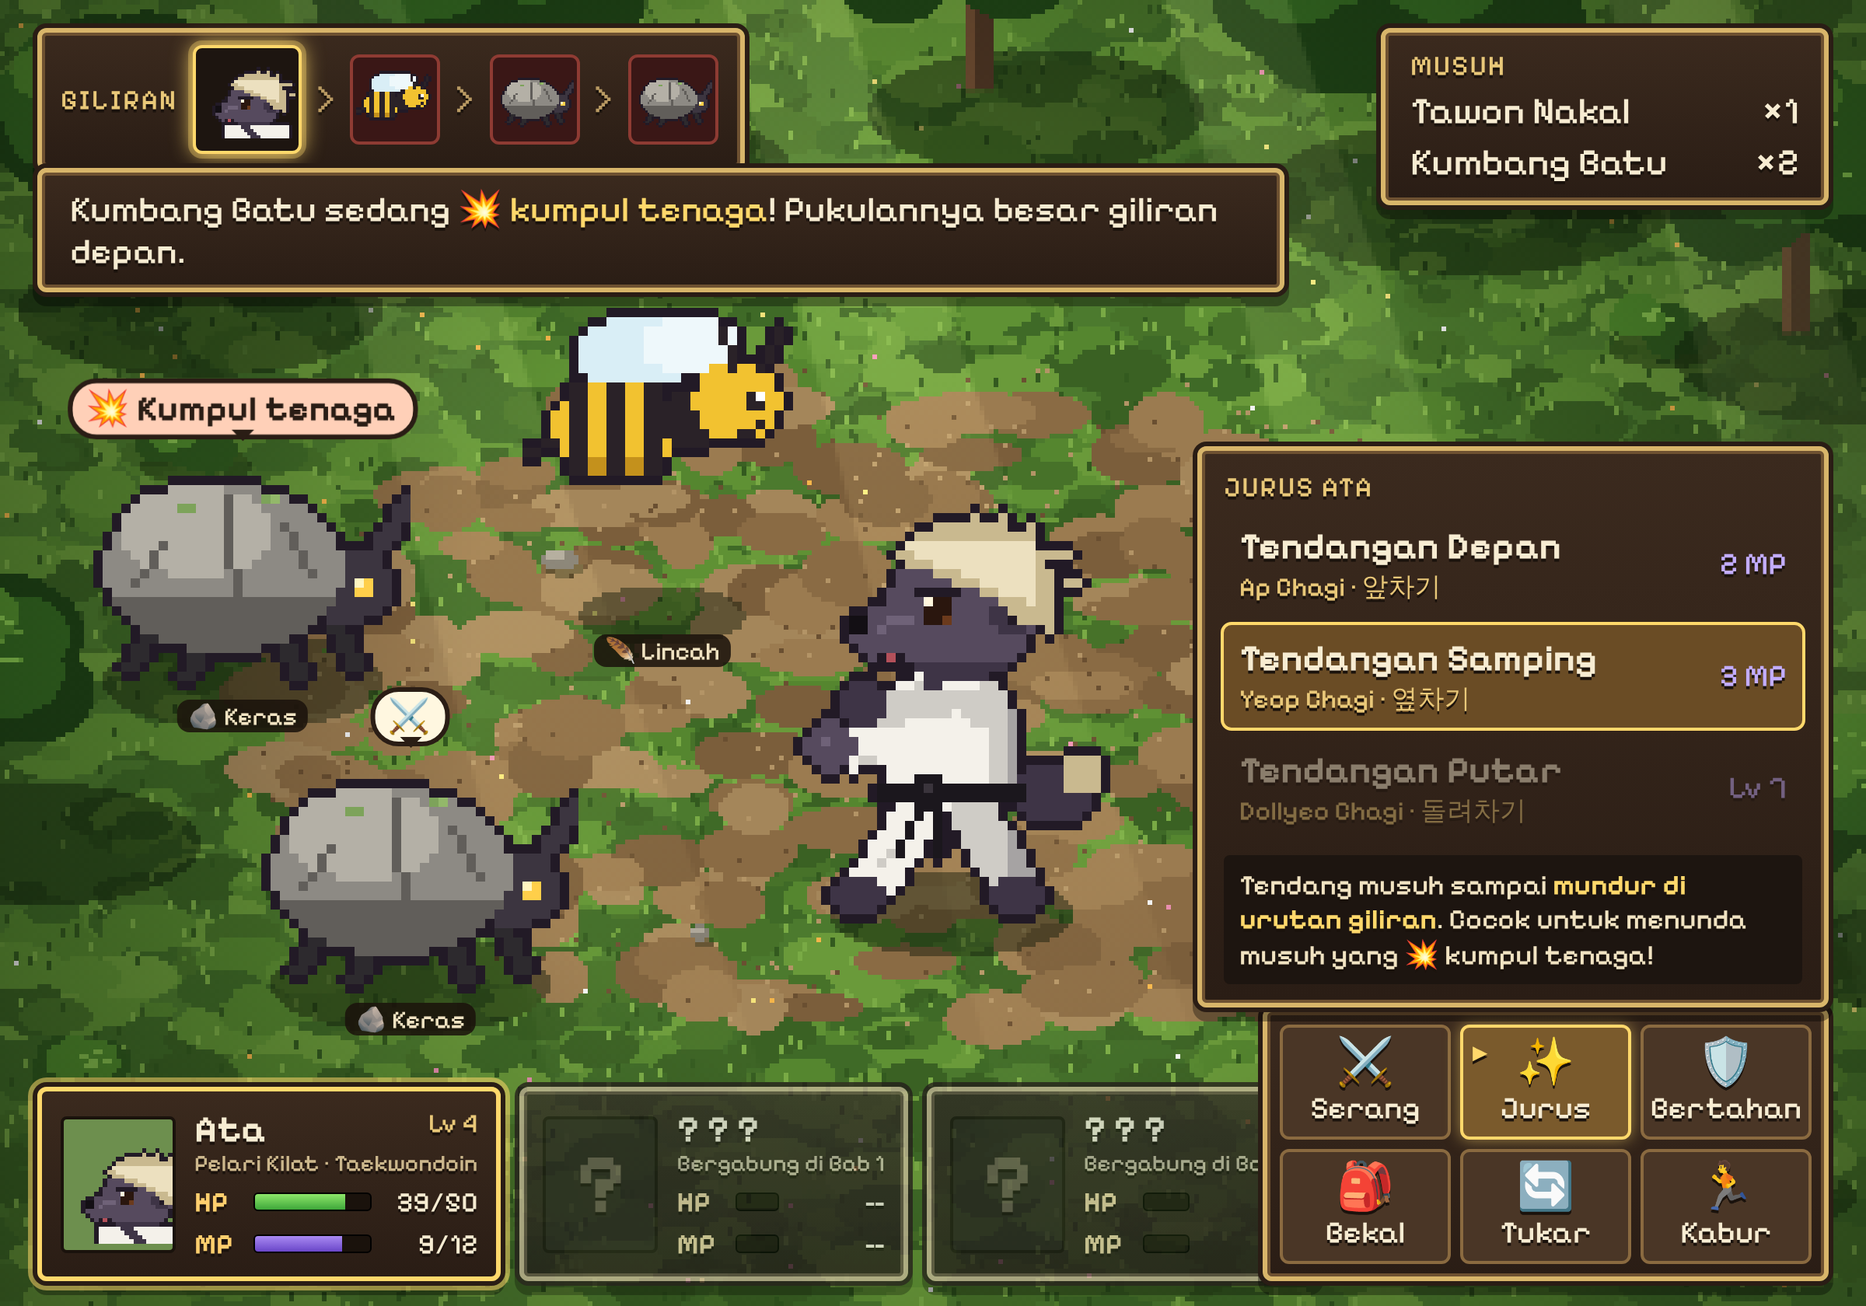
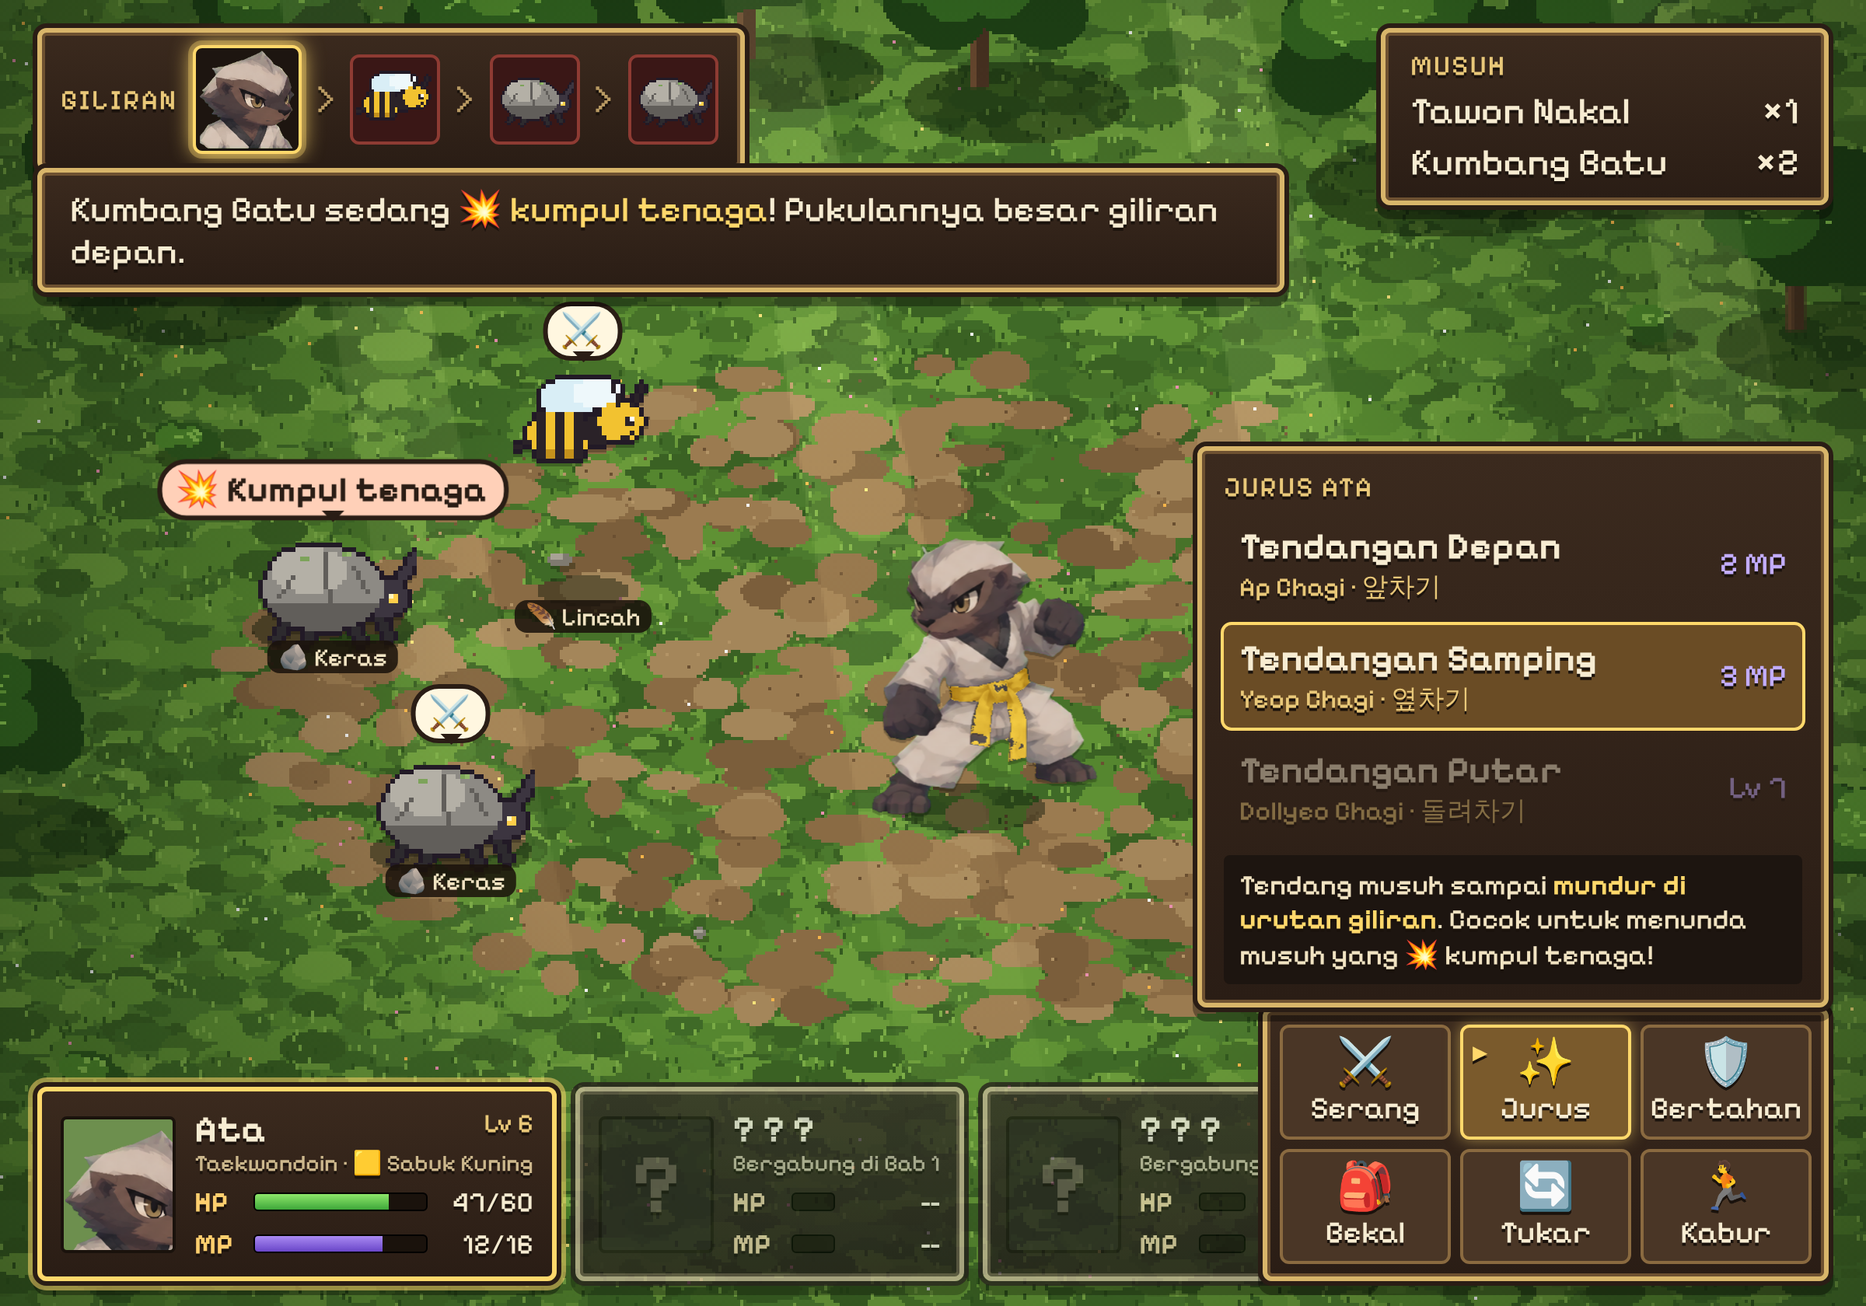
Mockup v2: sprite Ata dari pengguna, naik sabuk, kamera lebih jauh
Claude-Session: https://claude.ai/code/session_012A5oLvFsQThBvFkQXBRdxZ

diff --git a/pohon-madu/mockup/index.html b/pohon-madu/mockup/index.html
@@ -82,6 +82,16 @@
           display: grid; place-items: center; font-size: 52px; font-weight: 700; color: #4a2a0c; text-shadow: none; box-shadow: 0 0 20px #ffcf6e; }
   #btnTim { right: 24px; top: 96px; padding: 8px 14px; font-size: 22px; }
   #label { position: fixed; left: 8px; bottom: 6px; color: #fff8; font: 13px monospace; }
+  .spr { position: absolute; image-rendering: auto; filter: drop-shadow(0 2px 0 rgba(0,0,0,.25)); }
+  .spr.px { image-rendering: pixelated; }
+  .spr.flip { transform: scaleX(-1); }
+  #sabuk { left: 50%; top: 50%; transform: translate(-50%,-50%); padding: 20px 26px; text-align: center; }
+  #sabuk h2 { margin: 0 0 6px; font-size: 34px; color: #ffd86b; }
+  #sabuk .row { display: flex; gap: 14px; align-items: flex-end; }
+  #sabuk .it { width: 150px; }
+  #sabuk .it img { height: 210px; }
+  #sabuk .it b { display: block; font-size: 24px; } #sabuk .it span { font-size: 18px; color: #cdb88d; }
+  #sabuk p { font-size: 20px; color: #f1e3c2; margin: 14px 0 0; }
 </style>
 </head>
 <body>
@@ -90,31 +100,55 @@
 <script src="sprites.js"></script>
 <script src="scene.js"></script>
 <script>
-const SC = 3, stage = document.getElementById('stage'), g = cv.getContext('2d');
+const stage = document.getElementById('stage');
 const q = new URLSearchParams(location.search).get('s') || 'pilih';
-const sp = { ata: SPR.ataStance(), kick: SPR.ataKick(), face: SPR.ataFace(), kb: SPR.kumbang(), tw: SPR.tawon() };
+const K = 1.5, SC = 1200 / (400 * K);          // latar 600×420 → 2× (lebih jauh/zoom out)
+cv.width = 400 * K; cv.height = 280 * K; SCN.size(K);
+const g = cv.getContext('2d');
+const sp = { face: SPR.ataFace(), kb: SPR.kumbang(), tw: SPR.tawon() };
 const url = (S) => S.canvas().toDataURL();
-function draw(S, x, y, flip, k = 2) {
-  const c = S.canvas(); g.imageSmoothingEnabled = false;
-  if (flip) { g.save(); g.translate(x + c.width * k, y); g.scale(-1, 1); g.drawImage(c, 0, 0, c.width * k, c.height * k); g.restore(); }
-  else g.drawImage(c, x, y, c.width * k, c.height * k);
-}
-function ui(html, cls, style) { const d = document.createElement('div'); d.className = 'ui ' + (cls || ''); d.innerHTML = html; if (style) Object.assign(d.style, style); stage.appendChild(d); return d; }
-const at = (x, y) => ({ left: x * SC + 'px', top: y * SC + 'px' });
 
-function fit() {
-  const s = Math.min(innerWidth / 1200, innerHeight / 840);
-  stage.style.transform = `scale(${s}) translate(-50%, -50%)`;
+// ---- sabuk: warna diganti saat runtime (piksel gelap netral di area sabuk) ----
+const BELT = {
+  putih: ['#9f9a90', '#f3efe6'], kuning: ['#a47410', '#ffd84a'], hijau: ['#2c6a22', '#79c95a'],
+  biru: ['#1d3f8a', '#5f95ec'], merah: ['#7a1414', '#e24a3e'], hitam: null,
+};
+const BELT_AREA = {   // kotak area sabuk per pose (koordinat gambar)
+  siaga: [[66, 138, 160, 248]], tendang: [[97, 122, 174, 166], [100, 160, 130, 212]],
+  kanan: [[57, 165, 178, 236]], depan: [[55, 165, 152, 258]],
+};
+const IMG = {};
+function load(n) { return new Promise(r => { const i = new Image(); i.onload = () => { IMG[n] = i; r(); }; i.src = '../img/ata/' + n + '.png'; }); }
+function hex(h) { return [1, 3, 5].map(i => parseInt(h.substr(i, 2), 16)); }
+function ata(pose, belt) {
+  const im = IMG[pose], c = document.createElement('canvas'); c.width = im.width; c.height = im.height;
+  const x = c.getContext('2d'); x.drawImage(im, 0, 0);
+  const ramp = BELT[belt]; if (!ramp || !BELT_AREA[pose]) return c.toDataURL();
+  const d = x.getImageData(0, 0, c.width, c.height), a = d.data, lo = hex(ramp[0]), hi = hex(ramp[1]);
+  for (const [x0, y0, x1, y1] of BELT_AREA[pose]) for (let y = y0; y < y1; y++) for (let xx = x0; xx < x1; xx++) {
+    const i = (y * c.width + xx) * 4, r = a[i], gg = a[i + 1], b = a[i + 2];
+    if (a[i + 3] < 60 || Math.max(r, gg, b) >= 92 || r - b > 5 || Math.abs(r - gg) >= 12) continue;
+    const t = Math.min(1, Math.max(0, ((r + gg + b) / 3 - 28) / 55));
+    for (let k = 0; k < 3; k++) a[i + k] = lo[k] + (hi[k] - lo[k]) * t;
+  }
+  x.putImageData(d, 0, 0); return c.toDataURL();
 }
+function img(src, x, y, h, cls) { const i = document.createElement('img'); i.src = src; i.className = 'spr ' + (cls || ''); Object.assign(i.style, { left: x + 'px', top: y + 'px', height: h + 'px' }); stage.appendChild(i); return i; }
+function shadow(x, y, rx) { PX.disc(g, x / SC, y / SC, rx / SC, rx * 0.32 / SC, 'rgba(15,25,8,.45)'); }
+function ui(html, cls, style) { const d = document.createElement('div'); d.className = 'ui ' + (cls || ''); d.innerHTML = html; if (style) Object.assign(d.style, style); stage.appendChild(d); return d; }
+const at = (x, y) => ({ left: x + 'px', top: y + 'px' });
+
+function fit() { const s = Math.min(innerWidth / 1200, innerHeight / 840); stage.style.transform = `scale(${s}) translate(-50%, -50%)`; }
 addEventListener('resize', fit); fit();
 
-function partyCards(now) {
+const BELT_NOW = 'kuning';
+function partyCards(now, mp) {
   const p = ui('', '', {}); p.id = 'party';
   p.innerHTML = `
-  <div class="box card ${now ? 'now' : ''}"><div class="por"><img src="${url(sp.face)}"></div>
-    <div style="flex:1"><div class="nm">Ata <small>Lv 4</small></div><div class="job">Pelari Kilat · Taekwondoin</div>
-    <div class="bar hp"><b>HP</b><div class="t"><i style="width:78%"></i></div><span>39/50</span></div>
-    <div class="bar mp"><b>MP</b><div class="t"><i style="width:${now === 'hit' ? 50 : 75}%"></i></div><span>${now === 'hit' ? 6 : 9}/12</span></div></div></div>
+  <div class="box card ${now ? 'now' : ''}"><div class="por"><img src="${ata('wajah')}" style="width:96px;margin-top:6px;image-rendering:auto"></div>
+    <div style="flex:1"><div class="nm">Ata <small>Lv 6</small></div><div class="job">Taekwondoin · 🟨 Sabuk Kuning</div>
+    <div class="bar hp"><b>HP</b><div class="t"><i style="width:78%"></i></div><span>47/60</span></div>
+    <div class="bar mp"><b>MP</b><div class="t"><i style="width:${mp}%"></i></div><span>${Math.round(mp * 16 / 100)}/16</span></div></div></div>
   <div class="box card lock"><div class="por">?</div><div style="flex:1"><div class="nm">? ? ?</div><div class="job">Bergabung di Bab 1</div>
     <div class="bar hp"><b>HP</b><div class="t"></div><span>--</span></div><div class="bar mp"><b>MP</b><div class="t"></div><span>--</span></div></div></div>
   <div class="box card lock"><div class="por">?</div><div style="flex:1"><div class="nm">? ? ?</div><div class="job">Bergabung di Bab 2</div>
@@ -123,29 +157,28 @@ function partyCards(now) {
 
 function battleBase(hit) {
   SCN.battle(g);
-  // musuh (kiri) — Kumbang 1 bersiap pukulan besar, Kumbang 2 menyerang, Tawon terbang
-  const tx = hit ? 92 : 112, ty = hit ? 96 : 64;
-  SCN.shadow(g, 52, 146, 30); draw(sp.kb, 16, 96);
-  SCN.shadow(g, 88, 211, 30); draw(sp.kb, 52, 161);
-  SCN.shadow(g, tx + 30, hit ? 150 : 132, 18); draw(sp.tw, tx, ty);
-  // Ata (kanan)
-  if (hit) { SCN.shadow(g, 208, 156, 26); draw(sp.kick, 148, 70); }
-  else { SCN.shadow(g, 204, 196, 26); draw(sp.ata, 170, 108); }
-  // ikon niat & tipe
-  ui('💥 Kumpul tenaga', 'intent big', at(52, 94));
-  ui('⚔', 'intent', at(88, 160));
-  if (!hit) ui('⚔', 'intent', at(tx + 30, ty - 2));
-  ui('🪨 Keras', 'tipe', at(52, 150)); ui('🪨 Keras', 'tipe', at(88, 215)); ui('🪶 Lincah', 'tipe', at(tx + 30, hit ? 152 : 136));
-  const faces = { a: url(sp.face), k: url(sp.kb), t: url(sp.tw) };
+  // musuh (kiri, skala pixel 3×)
+  const tw = hit ? [300, 334] : [330, 238];
+  shadow(214, 405, 52); img(url(sp.kb), 160, 340, 78, 'px');
+  shadow(290, 548, 52); img(url(sp.kb), 236, 483, 78, 'px');
+  shadow(tw[0] + 45, hit ? 452 : 380, 30); img(url(sp.tw), tw[0], tw[1], 72, 'px');
+  if (hit) { shadow(540, 540, 46); img(ata('tendang', BELT_NOW), 389, 352, 190, 'flip'); }
+  else { shadow(625, 520, 48); img(ata('siaga', BELT_NOW), 560, 345, 180, 'flip'); }
+  ui('💥 Kumpul tenaga', 'intent big', at(214, 334));
+  ui('⚔', 'intent', at(290, 478));
+  if (!hit) ui('⚔', 'intent', at(tw[0] + 45, tw[1] - 6));
+  ui('🪨 Keras', 'tipe', at(214, 412)); ui('🪨 Keras', 'tipe', at(290, 556)); if (!hit) ui('🪶 Lincah', 'tipe', at(tw[0] + 45, 386));
+  const faces = { a: ata('wajah'), k: url(sp.kb), t: url(sp.tw) };
   const order = hit ? [['k', 1, 'now'], ['k', 2], ['a'], ['t', 0, '', '⬇']] : [['a', 0, 'now'], ['t'], ['k', 1], ['k', 2]];
   ui('<span class="lbl">GILIRAN</span>' + order.map(([k, n, c, mv], i) =>
-    (i ? '<span class="arrow">›</span>' : '') + `<div class="face ${c || ''} ${k !== 'a' ? 'foe' : ''}"><img src="${faces[k]}">${mv ? `<span class="mv">${mv}</span>` : ''}</div>`).join(''), 'box', {}).id = 'turn';
+    (i ? '<span class="arrow">›</span>' : '') + `<div class="face ${c || ''} ${k !== 'a' ? 'foe' : ''}"><img src="${faces[k]}" style="${k === 'a' ? 'image-rendering:auto' : ''}">${mv ? `<span class="mv">${mv}</span>` : ''}</div>`).join(''), 'box', {}).id = 'turn';
   ui('<div class="lbl">MUSUH</div><div class="row"><span>Tawon Nakal</span><span>×1</span></div><div class="row"><span>Kumbang Batu</span><span>×2</span></div>', 'box', {}).id = 'foes';
 }
 
+Promise.all(['siaga', 'tendang', 'kanan', 'depan', 'wajah'].map(load)).then(() => {
 if (q === 'pilih') {
   battleBase(false);
-  partyCards(true);
+  partyCards(true, 75);
   ui(`<div class="btn"><span class="ic">⚔</span>Serang</div><div class="btn sel"><span class="ic">✨</span>Jurus</div><div class="btn"><span class="ic">🛡</span>Bertahan</div><div class="btn"><span class="ic">🎒</span>Bekal</div><div class="btn"><span class="ic">🔄</span>Tukar</div><div class="btn"><span class="ic">🏃</span>Kabur</div>`, 'box', {}).id = 'menu';
   ui(`<div class="lbl">JURUS ATA</div>
     <div class="j"><b>Tendangan Depan</b><span class="mpc">2 MP</span><i>Ap Chagi · 앞차기</i></div>
@@ -155,30 +188,36 @@ if (q === 'pilih') {
   ui('Kumbang Batu sedang <em>💥 kumpul tenaga</em>! Pukulannya besar giliran depan.', 'box', {}).id = 'msg';
 } else if (q === 'serang') {
   battleBase(true);
-  partyCards('hit');
-  // efek tendangan
-  g.save(); g.globalAlpha = .9; g.strokeStyle = '#fff6d6'; g.lineWidth = 2;
-  for (let i = 0; i < 3; i++) { g.beginPath(); g.arc(200, 136, 34 + i * 7, Math.PI * 0.8, Math.PI * 1.25); g.stroke(); }
-  g.restore();
-  PX.disc(g, 152, 120, 10, 10, '#fff3b0'); PX.disc(g, 152, 120, 6, 6, '#ffffff');
-  ui('24<small>AMPUH!</small>', 'dmg', at(96, 66));
+  partyCards(false, 56);
+  const c2 = document.createElement('canvas'); c2.width = 1200; c2.height = 840; c2.style.pointerEvents = 'none'; stage.appendChild(c2);
+  const h = c2.getContext('2d'); h.strokeStyle = '#fff6d6'; h.lineWidth = 5; h.globalAlpha = .85;
+  for (let i = 0; i < 3; i++) { h.beginPath(); h.arc(470, 395, 50 + i * 16, Math.PI * 0.78, Math.PI * 1.22); h.stroke(); }
+  h.globalAlpha = 1; h.fillStyle = '#fff3b0'; h.beginPath(); h.arc(392, 370, 24, 0, 7); h.fill(); h.fillStyle = '#fff'; h.beginPath(); h.arc(392, 370, 13, 0, 7); h.fill();
+  ui('24<small>AMPUH!</small>', 'dmg', at(345, 222));
   ui('Ata: <em>Tendangan Samping!</em> &nbsp;Tawon Nakal terdorong ke belakang antrean ⬇', 'box', {}).id = 'msg';
 } else if (q === 'jelajah') {
   SCN.jelajah(g);
-  SCN.shadow(g, 300, 128, 30); draw(sp.kb, 264, 78);
-  SCN.shadow(g, 168, 196, 26); draw(sp.ata, 134, 108, true);
-  // madu berkilau
-  PX.disc(g, 120, 235, 5, 2, 'rgba(10,25,5,.4)');
-  PX.disc(g, 118, 229, 5, 5, '#c98a2a'); PX.disc(g, 117, 227, 3, 2.5, '#ffcf6e'); g.fillStyle = '#6b4a30'; g.fillRect(115, 222, 6, 2);
-  g.fillStyle = '#fff'; [[126, 222], [111, 224], [124, 232]].forEach(([x, y]) => { g.fillRect(x, y, 1, 3); g.fillRect(x - 1, y + 1, 3, 1); });
+  shadow(965, 330, 52); img(url(sp.kb), 911, 252, 78, 'px');
+  shadow(592, 520, 40); img(ata('kanan', BELT_NOW), 540, 355, 170);
+  const mx = 300 / SC, my = 640 / SC;
+  PX.disc(g, mx, my + 6, 7, 3, 'rgba(10,25,5,.4)'); PX.disc(g, mx, my, 6, 6, '#c98a2a'); PX.disc(g, mx - 1, my - 2, 3.5, 2.8, '#ffcf6e');
+  g.fillStyle = '#6b4a30'; g.fillRect(mx - 3, my - 7, 6, 2);
+  g.fillStyle = '#fff'; [[mx + 9, my - 7], [mx - 9, my - 5], [mx + 7, my + 4]].forEach(([x, y]) => { g.fillRect(x, y, 1, 3); g.fillRect(x - 1, y + 1, 3, 1); });
   ui('Hutan Pinggir<small>Prolog · Desa Akar</small>', 'box', {}).id = 'area';
   ui('<span>🪙 35</span><span>🍯 3</span>', 'box', {}).id = 'dompet';
   ui('👥 Tim', 'box', {}).id = 'btnTim';
-  ui('🪨 Kumbang Batu · <b style="color:#ffd86b">Lv 2</b>', 'box tag', at(300, 72));
-  ui('Dekati dari belakang = <b style="color:#ffd86b">Serangan Kejutan!</b>', 'box tag', at(300, 168));
+  ui('🪨 Kumbang Batu · <b style="color:#ffd86b">Lv 2</b>', 'box tag', at(965, 240));
+  ui('Dekati dari belakang = <b style="color:#ffd86b">Serangan Kejutan!</b>', 'box tag', at(930, 420));
   ui('', '', {}).id = 'stick';
   ui('A', '', {}).id = 'btnA';
+} else if (q === 'sabuk') {
+  SCN.jelajah(g); g.fillStyle = 'rgba(10,8,5,.55)'; g.fillRect(0, 0, cv.width, cv.height);
+  const L = [['putih', 'Sabuk Putih', 'Lv 1'], ['kuning', 'Sabuk Kuning', 'Lv 5'], ['hijau', 'Sabuk Hijau', 'Lv 10'],
+             ['biru', 'Sabuk Biru', 'Lv 16'], ['merah', 'Sabuk Merah', 'Lv 23'], ['hitam', 'Sabuk Hitam', 'Lv 30']];
+  ui(`<h2>🥋 Naik Sabuk</h2><div class="row">${L.map(([k, n, l]) => `<div class="it"><img src="${ata('depan', k)}"><b>${n}</b><span>${l}</span></div>`).join('')}</div>
+     <p>Sabuk = senjata Ata. Naik level → ujian sabuk di dojo → ATK & SPD naik + jurus baru.</p>`, 'box', {}).id = 'sabuk';
 }
+});
 </script>
 </body>
 </html>

diff --git a/pohon-madu/mockup/scene.js b/pohon-madu/mockup/scene.js
@@ -1,19 +1,20 @@
 // Mockup — latar isometrik bergaya lukisan pixel (hutan) untuk battle & jelajah
 const SCN = {};
 (function () {
-  const W = 400, H = 280;
+  let W = 400, H = 280, K = 1;
+  const P = (v) => v * K;
   const R = () => PX.rnd();
 
   function grass(g, seed) {
     PX.seed(seed);
     g.fillStyle = '#4c7a2e'; g.fillRect(0, 0, W, H);
     const tones = ['#3f6a27', '#55862f', '#5f9134', '#477229', '#6a9a3a', '#3a6123'];
-    for (let i = 0; i < 2600; i++) {
+    for (let i = 0; i < 2600 * K * K; i++) {
       const x = R() * W, y = R() * H, r = 2 + R() * 5;
       PX.disc(g, x, y, r * 1.6, r * 0.8, tones[(R() * tones.length) | 0]);
     }
     // rumput kecil (tekstur)
-    for (let i = 0; i < 2200; i++) {
+    for (let i = 0; i < 2200 * K * K; i++) {
       const x = (R() * W) | 0, y = (R() * H) | 0;
       g.fillStyle = R() < 0.5 ? '#79aa45' : '#335a1f';
       g.fillRect(x, y, 1, 2);
@@ -23,7 +24,7 @@ const SCN = {};
   function dirt(g, cx, cy, rx, ry, seed) {
     PX.seed(seed);
     const tones = ['#8a6b44', '#9b7b50', '#7b5e3b', '#a4865a'];
-    for (let i = 0; i < 260; i++) {
+    for (let i = 0; i < 260 * K; i++) {
       const a = R() * Math.PI * 2, d = Math.sqrt(R());
       const x = cx + Math.cos(a) * rx * d, y = cy + Math.sin(a) * ry * d;
       PX.disc(g, x, y, 6 + R() * 8, 3 + R() * 4, tones[(R() * 4) | 0]);
@@ -98,7 +99,7 @@ const SCN = {};
   function sunbeams(g) {
     g.save(); g.globalCompositeOperation = 'lighter';
     for (let i = 0; i < 4; i++) {
-      const x = 60 + i * 95;
+      const x = (60 + i * 95) * K;
       const gr = g.createLinearGradient(x, 0, x + 80, H);
       gr.addColorStop(0, 'rgba(255,240,170,.10)'); gr.addColorStop(1, 'rgba(255,240,170,0)');
       g.fillStyle = gr;
@@ -107,28 +108,28 @@ const SCN = {};
     g.restore();
   }
 
+  SCN.size = function (k) { K = k; W = 400 * k; H = 280 * k; };
   SCN.battle = function (g) {
     grass(g, 11);
-    dirt(g, 200, 150, 150, 72, 5);
+    dirt(g, P(200), P(150), P(150), P(72), 5);
     PX.seed(21);
-    [[120, 120, 3], [270, 185, 2.5], [300, 120, 2], [150, 200, 2]].forEach(([x, y, s]) => stone(g, x, y, s));
-    flowers(g, 140);
-    // semak & pohon di tepi (atas & sudut)
-    [[20, 230, 9], [380, 250, 11], [355, 70, 8], [40, 95, 8]].forEach(([x, y, s]) => bush(g, x, y, s));
-    [[30, 60, 26], [110, 30, 30], [210, 18, 24], [300, 35, 30], [385, 70, 26], [-5, 175, 24], [405, 200, 22]].forEach(([x, y, s]) => tree(g, x, y, s));
+    [[120, 120, 3], [270, 185, 2.5], [300, 120, 2], [150, 200, 2], [330, 160, 2]].forEach(([x, y, s]) => stone(g, P(x), P(y), s));
+    flowers(g, 260);
+    [[20, 230, 9], [380, 250, 11], [355, 70, 8], [40, 95, 8], [250, 40, 8], [120, 260, 9]].forEach(([x, y, s]) => bush(g, P(x), P(y), s));
+    [[30, 60, 26], [110, 30, 30], [210, 18, 24], [300, 35, 30], [385, 70, 26], [-5, 175, 24], [405, 200, 22], [160, 12, 22], [345, 20, 24], [60, 20, 22]].forEach(([x, y, s]) => tree(g, P(x), P(y), s));
     sunbeams(g);
     vignette(g, 0.55);
   };
 
   SCN.jelajah = function (g) {
     grass(g, 31);
-    path(g, [[-20, 270], [90, 215], [170, 190], [250, 140], [330, 105], [420, 60]], 15, 9);
+    path(g, [[-20, 270], [90, 215], [170, 190], [250, 140], [330, 105], [420, 60]].map(([x, y]) => [P(x), P(y)]), 13, 9);
     PX.seed(41);
-    flowers(g, 180);
-    [[80, 190, 2.5], [230, 175, 2], [300, 140, 2.2]].forEach(([x, y, s]) => stone(g, x, y, s));
-    [[150, 245, 9], [60, 160, 8], [345, 160, 9], [270, 80, 8]].forEach(([x, y, s]) => bush(g, x, y, s));
-    [[30, 120, 28], [110, 95, 30], [180, 70, 26], [240, 45, 24], [20, 230, 22],
-     [300, 240, 30], [370, 190, 28], [395, 290, 30], [215, 290, 26], [140, 300, 22]].forEach(([x, y, s]) => tree(g, x, y, s));
+    flowers(g, 300);
+    [[80, 190, 2.5], [230, 175, 2], [300, 140, 2.2]].forEach(([x, y, s]) => stone(g, P(x), P(y), s));
+    [[150, 245, 9], [60, 160, 8], [345, 160, 9], [270, 80, 8], [330, 30, 8], [200, 120, 7]].forEach(([x, y, s]) => bush(g, P(x), P(y), s));
+    [[30, 120, 28], [110, 95, 30], [180, 70, 26], [240, 45, 24], [20, 230, 22], [300, 15, 24], [80, 20, 26], [150, 15, 22],
+     [300, 240, 30], [370, 190, 28], [395, 290, 30], [215, 290, 26], [140, 300, 22], [395, 120, 24]].sort((a, b) => a[1] - b[1]).forEach(([x, y, s]) => tree(g, P(x), P(y), s));
     sunbeams(g);
     vignette(g, 0.5);
   };

diff --git a/pohon-madu/DESAIN.md b/pohon-madu/DESAIN.md
@@ -2,6 +2,8 @@
 
 > Status: **disepakati** (diskusi mekanik). Visual & kode belum dibuat — langkah berikutnya mockup.
 > Judul game & nama folder (`pohon-madu/`) masih sementara.
+> Sprite Ata dari pengguna (latar hijau) → dipotong ke `pohon-madu/img/ata/*.png`. Mockup: `pohon-madu/mockup/?s=pilih|serang|jelajah|sabuk`.
+> Gaya visual: latar hutan lukisan-pixel miring dari atas (referensi pengguna), kamera agak jauh (zoom out).
 
 Game keenam. **Turn-based RPG** (genre seperti Dragon Quest), murni untuk **melatih strategi** anak 6 tahun.
 Dimainkan di iPad (Safari) lewat GitHub Pages, sama seperti game lain.
@@ -83,7 +85,8 @@ Kekuatan awal (★1–5):
 *Tung* = sebutan tetua laki-laki, *Uti* = sebutan tetua perempuan.
 
 ### 🦡 Ata — Taekwondoin (kecepatan)
-Senjata: **sepatu & sabuk** (Sabuk Putih → Kuning → Hijau → Biru → Merah → Hitam; naik sabuk = senjata baru).
+Senjata: **sabuk** — **naik sabuk** (disepakati): Putih Lv 1 → Kuning Lv 5 → Hijau Lv 10 → Biru Lv 16 → Merah Lv 23 → Hitam Lv 30
+(ujian sabuk di dojo; ATK & SPD naik). Warna sabuk di sprite diganti saat runtime (`BELT`, `BELT_AREA` di mockup).
 Serangan biasa: **Pukulan Lurus (Jireugi 지르기)**. Bakat bawaan **Gesit**: kadang dapat giliran tambahan; kabur selalu berhasil.
 Nama jurus tampil **Indonesia + istilah Korea** (latin; hangul di dokumen ini saja).
 
